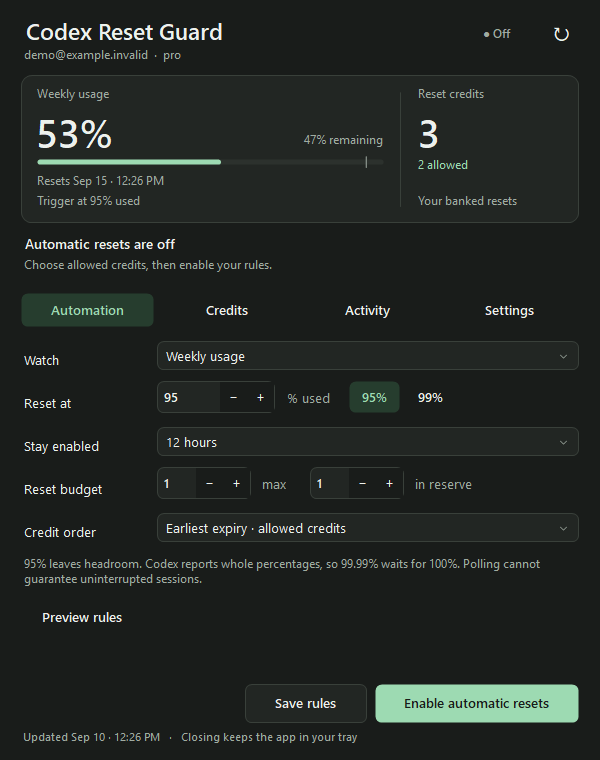
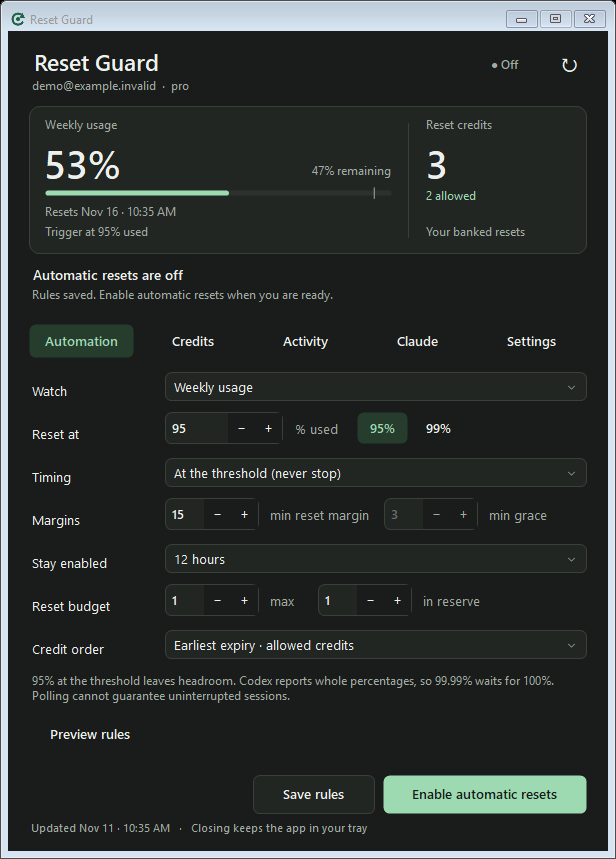
Rename to Reset Guard and refresh screenshots and release branding (#2)

diff --git a/source/GuardForm.cs b/source/GuardForm.cs
@@ -53,7 +53,7 @@ namespace CodexResetGuard
         {
             this.engine = engine; this.claude = claude; this.refresh = refresh; this.claudeRefresh = claudeRefresh; this.retry = retry; this.saveExtras = saveExtras; this.demo = demo;
             themePreference = demo ? "light" : Appearance.Load(); palette = Palette.Create(Appearance.IsDark(themePreference));
-            Text = "Codex Reset Guard"; Font = PaintKit.Font(9.5F, false); BackColor = palette.Canvas; ForeColor = palette.Ink;
+            Text = "Reset Guard"; Font = PaintKit.Font(9.5F, false); BackColor = palette.Canvas; ForeColor = palette.Ink;
             StartPosition = FormStartPosition.CenterScreen; AutoScaleDimensions = new SizeF(96, 96); AutoScaleMode = AutoScaleMode.Dpi;
             ClientSize = new Size(600, 820); MinimumSize = new Size(600, 560); MaximizeBox = false; DoubleBuffered = true;
             Icon = TrayIcons.Create(Accent); ShowInTaskbar = true;
@@ -63,7 +63,7 @@ namespace CodexResetGuard
             var header = new TableLayoutPanel { Dock = DockStyle.Fill, ColumnCount = 3, RowCount = 1, Margin = Padding.Empty };
             header.ColumnStyles.Add(new ColumnStyle(SizeType.Percent, 100)); header.ColumnStyles.Add(new ColumnStyle(SizeType.Absolute, 83)); header.ColumnStyles.Add(new ColumnStyle(SizeType.Absolute, 36));
             var heading = new Panel { Dock = DockStyle.Fill, Margin = Padding.Empty };
-            heading.Controls.Add(LabelAt("Codex Reset Guard", 0, 0, 400, 30, 17, true, false));
+            heading.Controls.Add(LabelAt("Reset Guard", 0, 0, 400, 30, 17, true, false));
             account = LabelAt("Connecting to Codex…", 1, 32, 400, 20, 9, false, true); heading.Controls.Add(account); header.Controls.Add(heading, 0, 0);
             badge = new ModernLabel { Dock = DockStyle.Top, Height = 30, TextAlign = ContentAlignment.MiddleCenter, Font = PaintKit.Font(9, true), Margin = new Padding(0, 3, 10, 0) }; header.Controls.Add(badge, 1, 0);
             check = Button("↻", 35, delegate { refresh(); }); check.Font = PaintKit.Font(18, false); check.Tone = ButtonTone.Quiet; check.AccessibleName = "Refresh usage"; tips.SetToolTip(check, "Refresh usage (F5)"); header.Controls.Add(check, 2, 0); layout.Controls.Add(header, 0, 0);
@@ -251,7 +251,7 @@ namespace CodexResetGuard
             executable = new TextBox { Dock = DockStyle.Top, Text = engine.State.CodexExecutable ?? "", BorderStyle = BorderStyle.FixedSingle, Margin = new Padding(0, 3, 7, 0), AccessibleName = "Codex executable path" }; pathRow.Controls.Add(executable, 0, 0);
             browse = Button("Browse…", 88, delegate { using (var dialog = new OpenFileDialog { Title = "Choose the official Codex CLI executable", Filter = "Codex executable (*.exe)|*.exe", CheckFileExists = true }) if (dialog.ShowDialog(this) == DialogResult.OK) executable.Text = dialog.FileName; }); pathRow.Controls.Add(browse, 1, 0);
             table.RowStyles.Add(new RowStyle(SizeType.Absolute, 43)); table.Controls.Add(pathRow, 0, 4); table.SetColumnSpan(pathRow, 2);
-            var note = Note("Codex CLI 0.147.0+ required. Keep your PC awake and the tray app running. Closing this window keeps monitoring active.\n\nCodex Reset Guard " + Program.Version + " · Independent open-source software", 83); table.RowStyles.Add(new RowStyle(SizeType.Absolute, 83)); table.Controls.Add(note, 0, 5); table.SetColumnSpan(note, 2);
+            var note = Note("Codex CLI 0.147.0+ required. Keep your PC awake and the tray app running. Closing this window keeps monitoring active.\n\nReset Guard " + Program.Version + " · Independent open-source software", 83); table.RowStyles.Add(new RowStyle(SizeType.Absolute, 83)); table.Controls.Add(note, 0, 5); table.SetColumnSpan(note, 2);
         }
         private void ApplyRules()
         {
@@ -282,7 +282,7 @@ namespace CodexResetGuard
                 if (expectedAccount != null && (engine.Latest == null || engine.Latest.AccountKey != expectedAccount)) throw new GuardException("The account changed during the check. Review the account and credits before enabling.");
                 engine.Arm(rules); refresh();
             }
-            catch (Exception ex) { MessageBox.Show(this, ex is GuardException ? ex.Message : "Automatic resets could not be enabled. Check the connection and saved rules.", "Codex Reset Guard", MessageBoxButtons.OK, MessageBoxIcon.Information); } UpdateView();
+            catch (Exception ex) { MessageBox.Show(this, ex is GuardException ? ex.Message : "Automatic resets could not be enabled. Check the connection and saved rules.", "Reset Guard", MessageBoxButtons.OK, MessageBoxIcon.Information); } UpdateView();
         }
         public void UpdateView()
         {
@@ -339,7 +339,7 @@ namespace CodexResetGuard
             credits.EndUpdate(); preferred.EndUpdate(); rebuilding = false; initializedCredits = s.DetailsKnown; creditNote.Text = s.Credits.Count == 0 ? "No reset-credit details are available yet. Refresh after earning a banked Codex reset." : "Choose the resets this app may use. Earlier expiries come first; new credits stay unchecked.";
         }
         public void Try(Action action)
-        { try { action(); UpdateView(); } catch (Exception ex) { MessageBox.Show(this, ex is GuardException ? ex.Message : "The setting could not be saved. Automatic resets have not been enabled with this change.", "Codex Reset Guard", MessageBoxButtons.OK, MessageBoxIcon.Information); } }
+        { try { action(); UpdateView(); } catch (Exception ex) { MessageBox.Show(this, ex is GuardException ? ex.Message : "The setting could not be saved. Automatic resets have not been enabled with this change.", "Reset Guard", MessageBoxButtons.OK, MessageBoxIcon.Information); } }
         private void ApplyTheme()
         {
             palette = Palette.Create(Appearance.IsDark(themePreference)); PaintKit.Theme(this, palette);

diff --git a/source/TrayApplication.cs b/source/TrayApplication.cs
@@ -63,7 +63,7 @@ namespace CodexResetGuard
             CreateIcons();
             // Create a Windows Forms synchronization context before starting asynchronous work.
             form = NewForm(); IntPtr handle = form.Handle;
-            tray = new NotifyIcon { Icon = offIcon, Visible = true, Text = "Codex Reset Guard" };
+            tray = new NotifyIcon { Icon = offIcon, Visible = true, Text = "Reset Guard" };
             tray.DoubleClick += delegate { ShowSettings(); };
             tray.MouseClick += delegate(object sender, MouseEventArgs e) { if (e.Button == MouseButtons.Left) ShowSettings(); };
             tray.ContextMenuStrip = new ContextMenuStrip();
@@ -228,7 +228,7 @@ namespace CodexResetGuard
             if (engine.State.Enabled || engine.State.Pending != null || engine.RequestInFlight)
             {
                 string why = engine.RequestInFlight ? "A reset request is in progress." : engine.State.Pending != null ? "A reset is awaiting confirmation." : "Automatic resets are on.";
-                if (MessageBox.Show(form, why + " Quitting stops monitoring until Reset Guard runs again. Quit anyway?", "Codex Reset Guard", MessageBoxButtons.YesNo, MessageBoxIcon.Question, MessageBoxDefaultButton.Button2) != DialogResult.Yes) return;
+                if (MessageBox.Show(form, why + " Quitting stops monitoring until Reset Guard runs again. Quit anyway?", "Reset Guard", MessageBoxButtons.YesNo, MessageBoxIcon.Question, MessageBoxDefaultButton.Button2) != DialogResult.Yes) return;
             }
             exiting = true; SystemEvents.UserPreferenceChanged -= PreferenceChanged; timer.Stop(); tray.Visible = false; tray.Dispose(); if (form != null) form.Dispose();
             foreach (var icon in new[] { offIcon, onIcon, pendingIcon, alertIcon }) icon.Dispose(); ExitThread();

diff --git a/source/Program.cs b/source/Program.cs
@@ -9,11 +9,11 @@ using System.Threading;
 using System.Threading.Tasks;
 using System.Windows.Forms;
 
-[assembly: AssemblyTitle("Codex Reset Guard")]
+[assembly: AssemblyTitle("Reset Guard")]
 [assembly: AssemblyDescription("Opt-in Windows tray automation for existing Codex reset credits, with Claude usage alerts")]
 [assembly: AssemblyVersion("1.2.0.0")]
 [assembly: AssemblyFileVersion("1.2.0.0")]
-[assembly: AssemblyProduct("Codex Reset Guard")]
+[assembly: AssemblyProduct("Reset Guard")]
 [assembly: AssemblyCopyright("MIT License")]
 
 namespace CodexResetGuard
@@ -60,10 +60,10 @@ namespace CodexResetGuard
             }
             catch (Exception ex)
             {
-                string message = ex is GuardException ? ex.Message : "Codex Reset Guard could not start. No reset request was sent during startup.";
+                string message = ex is GuardException ? ex.Message : "Reset Guard could not start. No reset request was sent during startup.";
                 if (args.Length == 2 && args[0] == "--ui-smoke") { Directory.CreateDirectory(args[1]); File.WriteAllText(Path.Combine(args[1], "ui-smoke-error.txt"), ex.ToString()); }
                 else if (args.Length == 2 && args[0] == "--read-only-check") File.WriteAllText(args[1], Data.Json(new { ok = false, error = message }));
-                else MessageBox.Show(message, "Codex Reset Guard", MessageBoxButtons.OK, MessageBoxIcon.Error);
+                else MessageBox.Show(message, "Reset Guard", MessageBoxButtons.OK, MessageBoxIcon.Error);
                 return 1;
             }
         }

diff --git a/source/Tests.cs b/source/Tests.cs
@@ -177,7 +177,7 @@ namespace CodexResetGuard
         }
         private static void StorageTests()
         {
-            string directory = Path.Combine(Path.GetTempPath(), "CodexResetGuard-tests-" + Guid.NewGuid().ToString("N")); Directory.CreateDirectory(directory);
+            string directory = Path.Combine(Path.GetTempPath(), "ResetGuard-tests-" + Guid.NewGuid().ToString("N")); Directory.CreateDirectory(directory);
             try
             {
                 var store = new StateStore(directory); Check(!store.Load().Enabled, "New installations start disabled");
@@ -339,7 +339,7 @@ namespace CodexResetGuard
             Check(threw && !engine.State.Enabled, "Enabling refuses rules whose reserve leaves nothing usable");
             rules = Armed(now).Rules; rules.Window = "fiveHour"; threw = false; try { engine.Arm(rules); } catch (GuardException) { threw = true; }
             Check(threw && !engine.State.Enabled, "Enabling refuses a usage window Codex does not report");
-            string directory = Path.Combine(Path.GetTempPath(), "CodexResetGuard-tests-" + Guid.NewGuid().ToString("N")); Directory.CreateDirectory(directory);
+            string directory = Path.Combine(Path.GetTempPath(), "ResetGuard-tests-" + Guid.NewGuid().ToString("N")); Directory.CreateDirectory(directory);
             try
             {
                 var store = new StateStore(directory); var armed = Armed(now); armed.ArmedUntil = 0; File.WriteAllText(store.StatePath, Data.Json(armed));

diff --git a/source/CodexClient.cs b/source/CodexClient.cs
@@ -143,7 +143,7 @@ namespace CodexResetGuard
         }
         public async Task InitializeAsync()
         {
-            await rpc.CallAsync("initialize", new { clientInfo = new { name = "codex_reset_guard", title = "Codex Reset Guard", version = Program.Version }, capabilities = new { experimentalApi = true } });
+            await rpc.CallAsync("initialize", new { clientInfo = new { name = "codex_reset_guard", title = "Reset Guard", version = Program.Version }, capabilities = new { experimentalApi = true } });
             rpc.Notify("initialized", new { });
         }
         public async Task<Snapshot> ReadAsync()

diff --git a/README.md b/README.md
@@ -1,22 +1,24 @@
-# Codex Reset Guard
+# Reset Guard
 
-**Your banked Codex resets, used by your rules.** A small, portable Windows tray app that redeems existing reset credits when usage reaches a threshold you choose. It can also watch your Claude plan usage and tell you when a Claude limit reset is worth using.
+**Usage and reset control for Codex and Claude.** A small, portable Windows tray app that redeems existing reset credits when usage reaches a threshold you choose. It can also watch your Claude plan usage and tell you when a Claude limit reset is worth using.
 
-[![Windows build](https://github.com/JamesTsetsekas/CodexResetGuard/actions/workflows/build.yml/badge.svg)](https://github.com/JamesTsetsekas/CodexResetGuard/actions/workflows/build.yml)
-[![Latest release](https://img.shields.io/github/v/release/JamesTsetsekas/CodexResetGuard)](https://github.com/JamesTsetsekas/CodexResetGuard/releases/latest)
+[![Windows build](https://github.com/JamesTsetsekas/ResetGuard/actions/workflows/build.yml/badge.svg)](https://github.com/JamesTsetsekas/ResetGuard/actions/workflows/build.yml)
+[![Latest release](https://img.shields.io/github/v/release/JamesTsetsekas/ResetGuard)](https://github.com/JamesTsetsekas/ResetGuard/releases/latest)
 [![License: MIT](https://img.shields.io/badge/License-MIT-green.svg)](LICENSE)
 
-**[Download for Windows x64](https://github.com/JamesTsetsekas/CodexResetGuard/releases/latest)** · [User guide](docs/USER-GUIDE.md) · [Report a bug](https://github.com/JamesTsetsekas/CodexResetGuard/issues/new/choose)
+**[Download for Windows x64](https://github.com/JamesTsetsekas/ResetGuard/releases/latest)** · [User guide](docs/USER-GUIDE.md) · [Report a bug](https://github.com/JamesTsetsekas/ResetGuard/issues/new/choose)
 
 | Light | Dark |
 | --- | --- |
 | ![Light appearance with synthetic account data](docs/images/automatic-resets.png) | ![Dark appearance with synthetic account data](docs/images/automatic-resets-dark.png) |
 
-*The compact interface, with a sample account. Automatic resets start disabled.*
+*Current interface with synthetic account data. Automatic resets start disabled.*
+
+![Claude usage monitoring with synthetic data](docs/images/claude.png)
 
 Choose **Settings → Appearance → Light, Dark, or Use Windows setting**. Appearance changes take effect immediately and leave your reset rules untouched. Use **F5** to refresh, **Ctrl+Tab** to move between pages, and **Escape** to return to the tray.
 
-[Watch the 37-second reset demo with original music](https://github.com/JamesTsetsekas/CodexResetGuard/releases/download/v1.0.0/codex-reset-guard-x-square.mp4). It shows the original v1.0 interface with synthetic data; the basic reset workflow is unchanged.
+[Watch the 37-second reset demo with original music](https://github.com/JamesTsetsekas/ResetGuard/releases/download/v1.0.0/codex-reset-guard-x-square.mp4). It shows the original v1.0 interface with synthetic data; the basic reset workflow is unchanged.
 
 ## What it does
 
@@ -34,7 +36,7 @@ This redeems reset credits you already have. It does not purchase credits, switc
 ## Get started
 
 1. Install the official [Codex CLI](https://github.com/openai/codex) **0.147.0 or newer** and sign in with your ChatGPT account.
-2. Download and extract the release ZIP. Keep `CodexResetGuard.exe` and its `.config` file together, then open the executable.
+2. Download and extract the release ZIP. Keep `ResetGuard.exe` and its `.config` file together, then open the executable.
 3. In **Credits**, check which credits the app may use.
 4. In **Automation**, set the threshold, enabled period, maximum resets, and reserve. Click **Enable automatic resets**.
 
@@ -60,6 +62,8 @@ Only checked, available full-reset credits are eligible. A specific-credit selec
 
 The app starts its own hidden official `codex app-server --listen stdio://` process and uses the account APIs to read usage and redeem the selected credit. It never starts a model turn or replaces the running Codex desktop app.
 
+Formerly **Codex Reset Guard**. Existing settings, credit permissions, and pending recovery journals are retained. The data folder keeps its original name for compatibility. If launch at sign-in was enabled, turn it off in the old copy before replacing it, then enable it in the new copy.
+
 Settings and the recovery journal stay in `%LOCALAPPDATA%\CodexResetGuard\state.json`. The existing Codex auth file is read in memory to bind automation to a hashed account identity. Reset Guard does not store tokens, send telemetry, or use a third-party account service. When Claude monitoring is turned on, it also reads Claude Code's sign-in (`~\.claude\.credentials.json`, plus the account email from `~\.claude.json`) in memory and calls Anthropic's usage endpoint at `api.anthropic.com` directly. The official Codex process handles its normal authentication. See the [privacy and recovery details](docs/USER-GUIDE.md).
 
 ## Build and test
@@ -68,7 +72,7 @@ No package restore or separate .NET SDK is required. From Windows PowerShell:
 
 ```powershell
 .\source\Build.ps1 -OutDir .\build
-.\build\CodexResetGuard.Tests.exe
+.\build\ResetGuard.Tests.exe
 ```
 
 The build uses the C# compiler included with .NET Framework. Tests use an isolated fake reset service, including the actual stdio transport. They do not consume credits. To produce the tested portable ZIP and SHA-256 manifest:

diff --git a/docs/USER-GUIDE.md b/docs/USER-GUIDE.md
@@ -1,10 +1,10 @@
-# Codex Reset Guard
+# Reset Guard
 
 A small, portable Windows tray app that uses your **existing banked Codex reset credits**, according to rules you explicitly enable. It can also watch your Claude plan usage and alert you when a Claude limit reset is worth using. Version 1.2.0. Independent software; not an OpenAI or Anthropic product.
 
 ## Start
 
-1. Keep `CodexResetGuard.exe` and `CodexResetGuard.exe.config` together. Double-click the executable.
+1. Keep `ResetGuard.exe` and `ResetGuard.exe.config` together. Double-click the executable.
 2. Wait for your account, weekly usage, and reset credits to load.
 3. On **Credits**, check the credits this app may use. **Allow all shown** selects the credits currently displayed. Future credits remain unchecked.
 4. On **Automation**, choose the usage window, threshold, timing, enabled period, maximum resets, reserve count, and credit selection.
@@ -67,7 +67,7 @@ The server decides eligibility. A full banked reset changes the weekly reset dat
 
 The **Claude** page can watch your Claude plan usage. Turn on **Watch my Claude plan usage (read-only)**, choose the alert threshold and window, and select **Save settings**. It starts off.
 
-- Usage is read from the same endpoint Claude Code uses for `/usage`, with the sign-in Claude Code already stores in `~\.claude\.credentials.json` (or `CLAUDE_CONFIG_DIR`). The account email shown is read from `~\.claude.json` (or `CLAUDE_CONFIG_DIR\.claude.json`). The token is read into memory for each request. It is never stored, logged, copied, or refreshed. If it has expired, open Claude Code once to refresh it. Requests identify themselves as Codex Reset Guard.
+- Usage is read from the same endpoint Claude Code uses for `/usage`, with the sign-in Claude Code already stores in `~\.claude\.credentials.json` (or `CLAUDE_CONFIG_DIR`). The account email shown is read from `~\.claude.json` (or `CLAUDE_CONFIG_DIR\.claude.json`). The token is read into memory for each request. It is never stored, logged, copied, or refreshed. If it has expired, open Claude Code once to refresh it. Requests identify themselves as Reset Guard.
 - Each watched 5-hour or weekly window alerts once at your threshold and again at 100% (optional). At most one alert is shown per check; a window that jumps straight to 100% gets only the limit alert. Per-model windows (such as Fable) are shown but do not alert. Alerts are skipped when the window resets on its own within two minutes. Clicking an alert opens the Claude page. Usage from a failed check is never shown as current.
 - Claude limit resets are claimed in Claude's own apps, which ask you to confirm each one. **Use a reset in Claude Code** opens Claude Code with `/limit-reset`. **Open claude.ai usage** opens Settings → Usage, where Claude offers *Reset for free* when you have one. Reset Guard never claims a Claude reset itself. Claude currently reports banked-reset details only to its own apps, so the page may say so instead of showing a count.
 - Polling is every three minutes, or every minute once a watched window is within ten points of the threshold. Errors back off to 2, 4, 8, then 15 minutes.
@@ -94,7 +94,7 @@ The complete C# source and build script are in `source/`. From PowerShell:
 
 ```powershell
 .\source\Build.ps1 -OutDir .\build
-.\build\CodexResetGuard.Tests.exe
+.\build\ResetGuard.Tests.exe
 ```
 
 The compiler supplied with .NET Framework is used; no package downloads are required. `--ui-smoke <directory>` renders all five pages in both themes using explicitly synthetic data and cannot redeem credits. `--read-only-check <report.json>` checks the real account connection without sending a reset or model request. Use `Start-Process -Wait` when scripting those GUI-executable modes.

diff --git a/docs/RELEASE-NOTES.md b/docs/RELEASE-NOTES.md
@@ -1,4 +1,6 @@
-**Codex Reset Guard 1.2.0** adds reset timing modes, Claude usage alerts, and a round of reliability fixes for the reset engine, transport, and tray.
+**Reset Guard 1.2.0** adds reset timing modes, Claude usage alerts, and a round of reliability fixes for the reset engine, transport, and tray.
+
+Renamed from Codex Reset Guard to Reset Guard, with updated screenshots and portable executable names. Existing settings and pending recovery remain compatible.
 
 ### New
 
@@ -38,7 +40,7 @@
 - A spent specific credit is cleared from Credit order, so the next Enable doesn't fail. The Codex handshake now reports the real app version.
 - Release script: test failures print their details, the UI smoke runs before packaging, the version is checked in `Program.cs` (both assembly attributes and `Program.Version`), `app.manifest` and these notes, and successful runs clean up their staging folder.
 
-**Download:** extract `CodexResetGuard-1.2.0-windows-x64.zip` and run `CodexResetGuard.exe`. Keep its `.config` file beside it. Automatic resets start **off** on a fresh install. To upgrade, quit the existing tray instance and replace the files in its portable folder. Version 1.1 settings, allowed credits, and any pending request survive the upgrade; new settings start at their defaults (threshold timing, 15-minute margin, Claude monitoring off).
+**Download:** extract `ResetGuard-1.2.0-windows-x64.zip` and run `ResetGuard.exe`. Keep its `.config` file beside it. Automatic resets start **off** on a fresh install. To upgrade, quit the existing tray instance and replace the files in its portable folder. Version 1.1 settings, allowed credits, and any pending request survive the upgrade; new settings start at their defaults (threshold timing, 15-minute margin, Claude monitoring off).
 
 Requires Windows 10/11 x64, .NET Framework 4.8+, and the official Codex CLI 0.147.0+ signed in to ChatGPT with file-backed authentication. Claude monitoring additionally requires Claude Code signed in with a Claude subscription. The executable is unsigned. `SHA256SUMS.txt` provides the ZIP checksum; the ZIP includes individual file checksums and source.
 

diff --git a/CONTRIBUTING.md b/CONTRIBUTING.md
@@ -4,13 +4,13 @@ Use Windows x64 with .NET Framework 4.8. The build uses the C# compiler that shi
 
 ```powershell
 .\source\Build.ps1 -OutDir .\build
-.\build\CodexResetGuard.Tests.exe
+.\build\ResetGuard.Tests.exe
 ```
 
 For UI changes, render every page in both themes and exercise the controls with synthetic account data:
 
 ```powershell
-Start-Process .\build\CodexResetGuard.exe -ArgumentList '--ui-smoke', 'build\ui' -Wait
+Start-Process .\build\ResetGuard.exe -ArgumentList '--ui-smoke', 'build\ui' -Wait
 ```
 
 Inspect `build/ui/ui-checks.json`, the light/dark screenshots, and the enabled, pending, completed, and empty states. UI smoke mode never reads appearance preferences, changes startup registration, or sends a live reset request. Its isolated engine can only arm the fake account. Production reset logic remains covered by the separate tests above.
